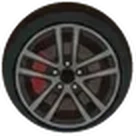
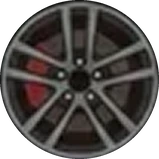
Ruedas de la cabecera: solo gira la llanta, centrada en su eje por la simetría de los radios (sin bailar)
Claude-Session: https://claude.ai/code/session_01V2iRQ1otXhkcHck3527rkC

diff --git a/js/config.js b/js/config.js
@@ -928,9 +928,10 @@
           nombre: 'Toyota Corolla',
           imagen: 'imagenes/coche-turismo.webp',   // ilustraciones de Iván (26-11-2026)
           aspecto: 2.7673,                 // ancho / alto del dibujo
-          // Ruedas recortadas del dibujo para que giren en la cabecera: caja en
+          // Llantas recortadas del dibujo (solo la llanta, centrada en su eje por
+          // simetría de los radios) para que giren en la cabecera: caja en
           // fracciones del dibujo (x, y, ancho, alto), trasera y delantera.
-          ruedas: [{ imagen: 'imagenes/coche-turismo-rueda-1.webp', caja: [0.1386,  0.6101,  0.1409,  0.3899] }, { imagen: 'imagenes/coche-turismo-rueda-2.webp', caja: [0.7409,  0.6101,  0.1409,  0.3899] }],
+          ruedas: [{ imagen: 'imagenes/coche-turismo-rueda-1.webp', caja: [0.15001,  0.64013,  0.11591,  0.32075] }, { imagen: 'imagenes/coche-turismo-rueda-2.webp', caja: [0.75422,  0.64013,  0.11591,  0.32075] }],
           precio: 1500,              // Iván (valor de juego): precio del coche.
           consumoLitros100Km: 6      // Dato de Iván: consumo medio en ciudad.
         },
@@ -938,9 +939,10 @@
           nombre: 'Tesla Model 3', descripcion: 'Eléctrico: la carga cuesta mucho menos que la gasolina, se avería mucho menos y el piloto automático cansa menos.',
           imagen: 'imagenes/coche-tesla.webp',
           aspecto: 3.0345,                 // ancho / alto del dibujo
-          // Ruedas recortadas del dibujo para que giren en la cabecera: caja en
+          // Llantas recortadas del dibujo (solo la llanta, centrada en su eje por
+          // simetría de los radios) para que giren en la cabecera: caja en
           // fracciones del dibujo (x, y, ancho, alto), trasera y delantera.
-          ruedas: [{ imagen: 'imagenes/coche-tesla-rueda-1.webp', caja: [0.1136,  0.5379,  0.1545,  0.469] }, { imagen: 'imagenes/coche-tesla-rueda-2.webp', caja: [0.7455,  0.531,  0.1545,  0.469] }],
+          ruedas: [{ imagen: 'imagenes/coche-tesla-rueda-1.webp', caja: [0.13001,  0.61521,  0.12045,  0.36552] }, { imagen: 'imagenes/coche-tesla-rueda-2.webp', caja: [0.76183,  0.61521,  0.12045,  0.36552] }],
           precio: 3500, electrico: true,
           kwh100Km: 15,              // PROVISIONAL (estimación de Claude, sin fuente)
           efecto: { averia: 0.4, cansancio: 0.8 }
@@ -948,9 +950,10 @@
         mercedes: {
           imagen: 'imagenes/coche-mercedes.webp',
           aspecto: 3.2117,                 // ancho / alto del dibujo
-          // Ruedas recortadas del dibujo para que giren en la cabecera: caja en
+          // Llantas recortadas del dibujo (solo la llanta, centrada en su eje por
+          // simetría de los radios) para que giren en la cabecera: caja en
           // fracciones del dibujo (x, y, ancho, alto), trasera y delantera.
-          ruedas: [{ imagen: 'imagenes/coche-mercedes-rueda-1.webp', caja: [0.1386,  0.5328,  0.1455,  0.4672] }, { imagen: 'imagenes/coche-mercedes-rueda-2.webp', caja: [0.7545,  0.5328,  0.1455,  0.4672] }],
+          ruedas: [{ imagen: 'imagenes/coche-mercedes-rueda-1.webp', caja: [0.15155,  0.59,  0.11591,  0.37226] }, { imagen: 'imagenes/coche-mercedes-rueda-2.webp', caja: [0.7741,  0.58964,  0.11591,  0.37226] }],
           nombre: 'Mercedes Clase S', descripcion: 'La gama más alta: muchas más propinas, clientes que pagan y más carreras en el Centro y el Aeropuerto; gasta más y sus reparaciones son más caras.',
           precio: 5000,
           consumoLitros100Km: 7.8,   // un 30 % más que el Corolla (Equilibrio)

diff --git a/js/actualizaciones.js b/js/actualizaciones.js
@@ -625,6 +625,10 @@
         {
           "n": 137,
           "texto": "Arreglo: el taxi de la calle de arriba ya no cambia de modelo a mitad de camino. Cada pasada es entera con el mismo coche y, si tienes varios modelos, la siguiente es otro distinto."
+        },
+        {
+          "n": 138,
+          "texto": "Arreglo: las ruedas del Tesla y del Mercedes ya giran centradas, sin bailar. Ahora gira solo la llanta, centrada en su eje, y el neumático se queda quieto."
         }
       ]
     }

diff --git a/docs/historial.md b/docs/historial.md
@@ -174,3 +174,4 @@ Todas las actualizaciones del juego, numeradas (las pequeñas, agrupadas). Es el
 135. El Corolla y el Tesla estrenan llantas de aleación, con más detalle (el Tesla, con la pinza de freno roja).
 136. Las ruedas del taxi que cruza la calle de arriba vuelven a girar, ahora con las llantas de cada coche: Corolla, Tesla y Mercedes.
 137. Arreglo: el taxi de la calle de arriba ya no cambia de modelo a mitad de camino. Cada pasada es entera con el mismo coche y, si tienes varios modelos, la siguiente es otro distinto.
+138. Arreglo: las ruedas del Tesla y del Mercedes ya giran centradas, sin bailar. Ahora gira solo la llanta, centrada en su eje, y el neumático se queda quieto.

diff --git a/imagenes/LEEME.md b/imagenes/LEEME.md
@@ -25,7 +25,8 @@ la tapa el texto.
   Tesla, volteado: su imagen miraba a la izquierda). Los
   usan la cabecera, la miniatura de los km y la hoja de elegir coche
   (`config.vehiculos.modelos.<id>.imagen`). `coche-<id>-rueda-1.webp` y
-  `-2.webp`: sus ruedas trasera y delantera recortadas en círculo, para que
+  `-2.webp`: sus llantas trasera y delantera (solo la llanta, con el centro
+  buscado por la simetría de los radios) recortadas en círculo, para que
   giren encima en la cabecera (`ruedas` y `aspecto` en la config).
 - `personaje.webp`: tu retrato (256 × 256), el protagonista; lo usa
   `config.personaje.imagen` en la cabecera, «Tus taxis hoy», Conductores y
